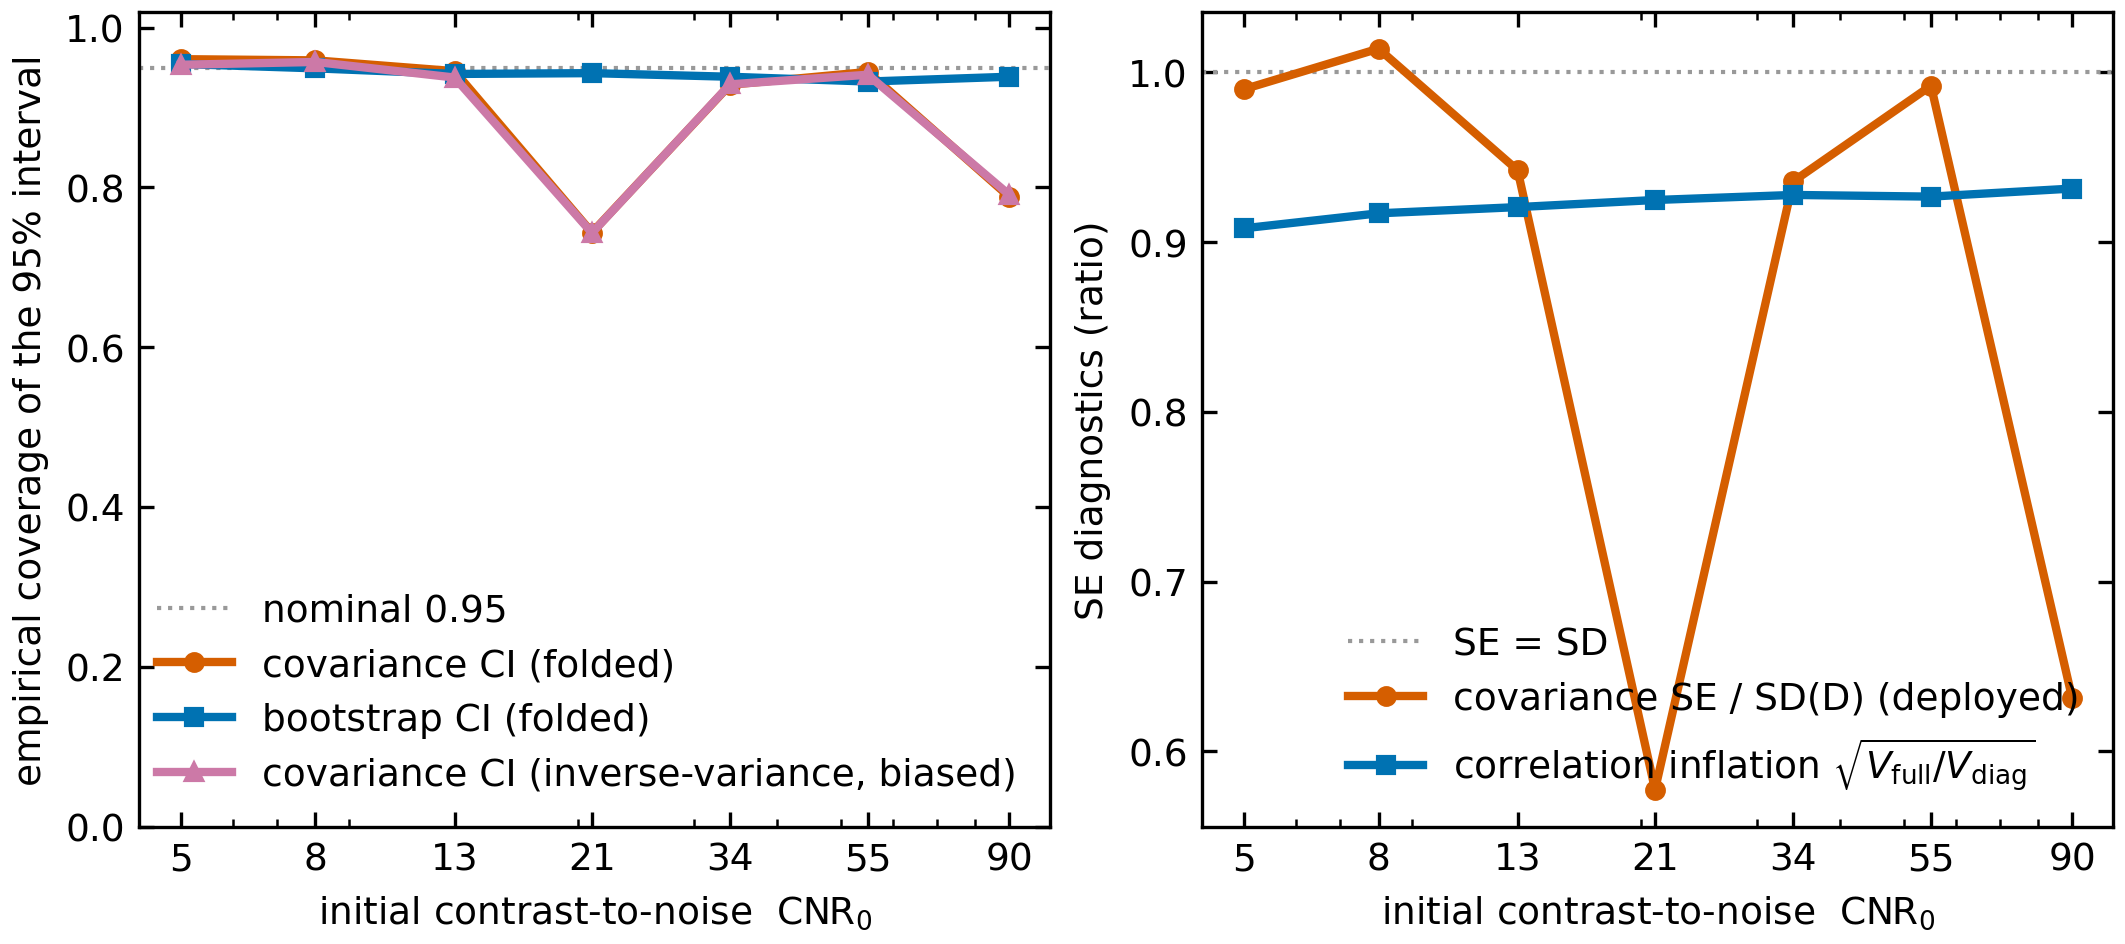
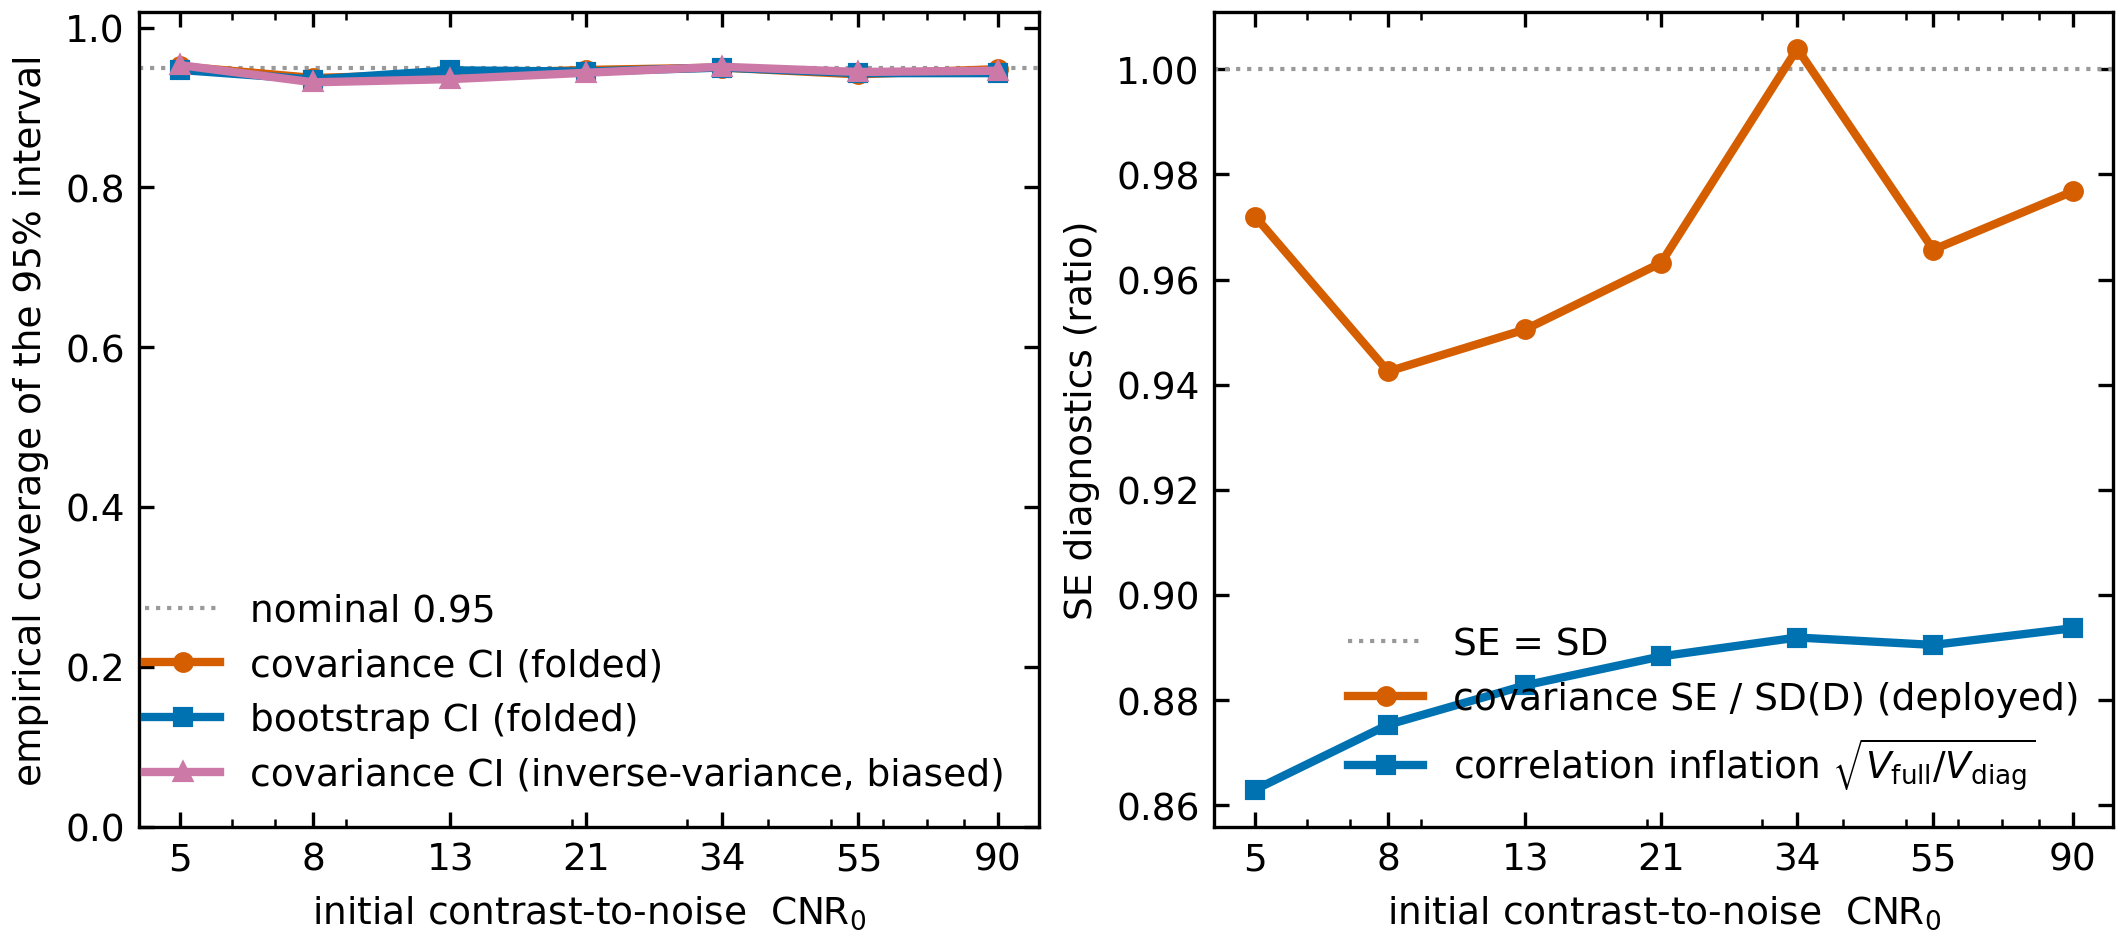
Regenerate the coverage check with the per-frame slope weights: the covariance interval covers 0.94 to 0.95 at every CNR0, so the earlier under-coverage came from the MSD-point weights

diff --git a/experiments/coverage-interval/coverage_check.py b/experiments/coverage-interval/coverage_check.py
@@ -188,6 +188,10 @@ def write_report(rows: list[dict], path: Path) -> None:
         "=" * 78,
         f"D_true = {D_TRUE} sigma0^2/tau, Gaussian, standard geometry; "
         f"{N_RUNS} runs/cell, {N_BOOT} bootstrap.",
+        f"calibration: D-free (calibrate_d_free, D = 0), Gaussian, {len(CAL_CNR0)} "
+        f"CNR0 in [{CAL_CNR0[0]:g}, {CAL_CNR0[-1]:g}] x {N_RUNS_CAL} runs, seeds 1 + i "
+        f"(shared cache {CAL_PATH.name}); evaluation seeds {SEED} + 100 k for "
+        "CNR0 index k, bootstrap seed + 7.",
         "95% intervals. Coverage = fraction containing D_true.",
         "subtract is de-biased (coverage meaningful); inverse_variance is "
         "biased (contrast).",

diff --git a/docs/REPO_MAP.md b/docs/REPO_MAP.md
@@ -27,7 +27,7 @@ output/              regenerated run outputs and cached calibrations (not tracke
 | [dfree-calibration](../experiments/dfree-calibration/) | `validate_d_zero.py`, `dense_calibration_and_test.py`, `calibration_se_check.py`, `weights_check.py`, `slope_fit_check.py`, `render_bias_panels.py` | corrected D: 4 of 140 cells beyond 2 combined SE (standard window) and 5 of 96 (short window), pooled bias within 0.8 combined SE on every shape; naive all frames 46 of 140 and 41 of 96, its bias exceeding the error of the mean after 15 to 91 (standard) or 47 to 652 (short) averaged measurements; calibration SE about equal to evaluation SE at equal runs and shared by every measurement, so calibration runs should exceed the number of measurements averaged; propagated calibration SE observed/predicted 0.89 over 16 draws; dense sweep pooled bias within 0.6 combined SE on four shapes, MAS fails high or low by shape below CNR0 about 6 | `.txt` tables, `poster_panel3_bias.png`, `poster_panel5_corrected_bias.png` |
 | [correction-floor](../experiments/correction-floor/) | `per_profile_floor.py`, `analytical_floor.py`, `per_frame_in_diffusion_experiment.py`, `render_floor_panel.py` | per-profile floor at tolerance 0.3 x 2 D t_max (D = 0.02 sigma_0^2/tau): CNR 1.16 (Gaussian, Voigt), 1.51 (p = 1.5), 0.89 (p = 4), residual and calibration SE both counted; Fisher A matches Monte Carlo to 0.986-1.006 and the A/CNR^2 model departs at CNR about 1.18 (0.85 for Voigt) | `.txt` tables, `poster_panel5_floor.png` |
 | [noise-law](../experiments/noise-law/) | `shot_noise_validation.py`, `read_floor_sweep.py` | the bias is set by the constant (white / read-floor) part of the noise; a calibration must match the noise law | `read_floor_sweep.png`, `fftcnr_white_vs_shot.png` |
-| [coverage-interval](../experiments/coverage-interval/) | `coverage_check.py` | the covariance interval under-covers; report a bootstrap or profile interval | `coverage_check.png` |
+| [coverage-interval](../experiments/coverage-interval/) | `coverage_check.py` | with the per-frame slope weights the covariance interval covers 0.94-0.95 at every CNR0 (nominal 0.95), as does the bootstrap | `coverage_check.png` |
 | [estimator-comparison](../experiments/estimator-comparison/) | `moment_estimator_failure.py`, `unbounded_fit_comparison.py` | removing the lower bound from the width fit does not substitute for the correction | `method_comparison.png`, `unbounded_fit_comparison.png` |
 | [subdiffusive-alpha](../experiments/subdiffusive-alpha/) | `subdiffusive_alpha.py` | signed corrected exponent error over CNR0 21-90 within 1.4 SE for alpha 0.6-1.0 and +0.049 ± 0.016 for 1.2 (SE without the calibration error); naive +0.024 to +0.081 (z 2.2-4.9) | `subdiffusive_alpha.png` |
 | [multiexp-decay](../experiments/multiexp-decay/) | `multiexp_decay.py` | the correction keys on per-frame CNR, not on the decay law (corrected D 0.93-1.06 of D_ref for three decay laws) | `multiexp_decay.png` |

diff --git a/experiments/coverage-interval/README.md b/experiments/coverage-interval/README.md
@@ -27,12 +27,19 @@ snapshots are here.
 
 ## Key result + figure
 
-The shared sigma_hat^2_0 is common-mode (shifts the intercept, not the slope), so
-it is not the cause of under-coverage (inflation 0.91-0.93 < 1). The covariance
-CI under-covers erratically (0.74-0.79) because the D-free calibration
-mis-estimates the absolute per-point variance; the bootstrap covers ~0.94.
-Report a bootstrap or profile interval for D; the covariance CI under-covers.
-Figure: `coverage_check.png`; table `coverage_check.txt`.
+With the library slope weights (per-frame Var(σ̂²) from the D-free lookup,
+frame 0 included), the covariance interval covers D_ref 0.94 to 0.95 of the
+time at every CNR₀ from 5 to 90 (2000 runs per cell, nominal 0.95). Its width
+matches the realised spread (mean D_se / SD(D̂) 0.94 to 1.00), and the
+parametric bootstrap covers 0.94 to 0.95. The shared σ̂²₀ is common-mode: it
+shifts the intercept and leaves the slope, so it does not widen the interval
+(inflation 0.86 to 0.89, below 1). The inverse-variance contrast also covers
+0.93 to 0.95, because at this D (0.02 σ₀²/τ) its bias (1.10 to 1.65 of D_ref
+at CNR₀ 5 to 21) is small against the spread of a single measurement (0.84 to
+4.75 of D_ref). The D-free calibration is the shared
+`calibration_subdiffusive.npz` (Gaussian, 60 CNR₀ × 1500 runs), named with
+the seeds in the table header. Figure: `coverage_check.png`; table
+`coverage_check.txt`.
 
 ## Depends on
 
